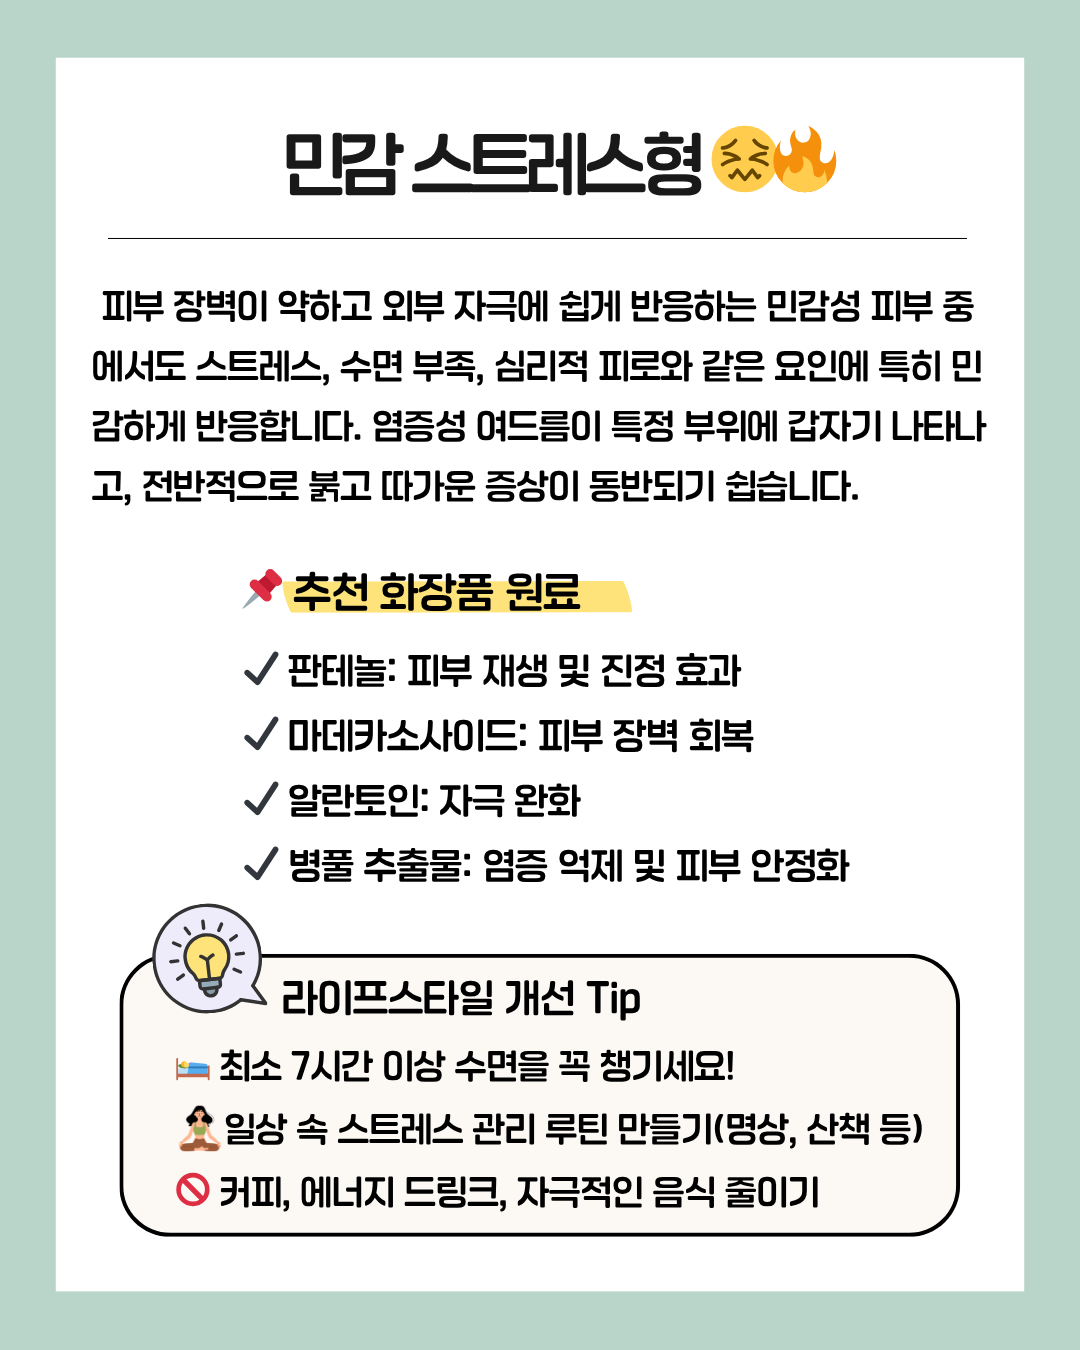
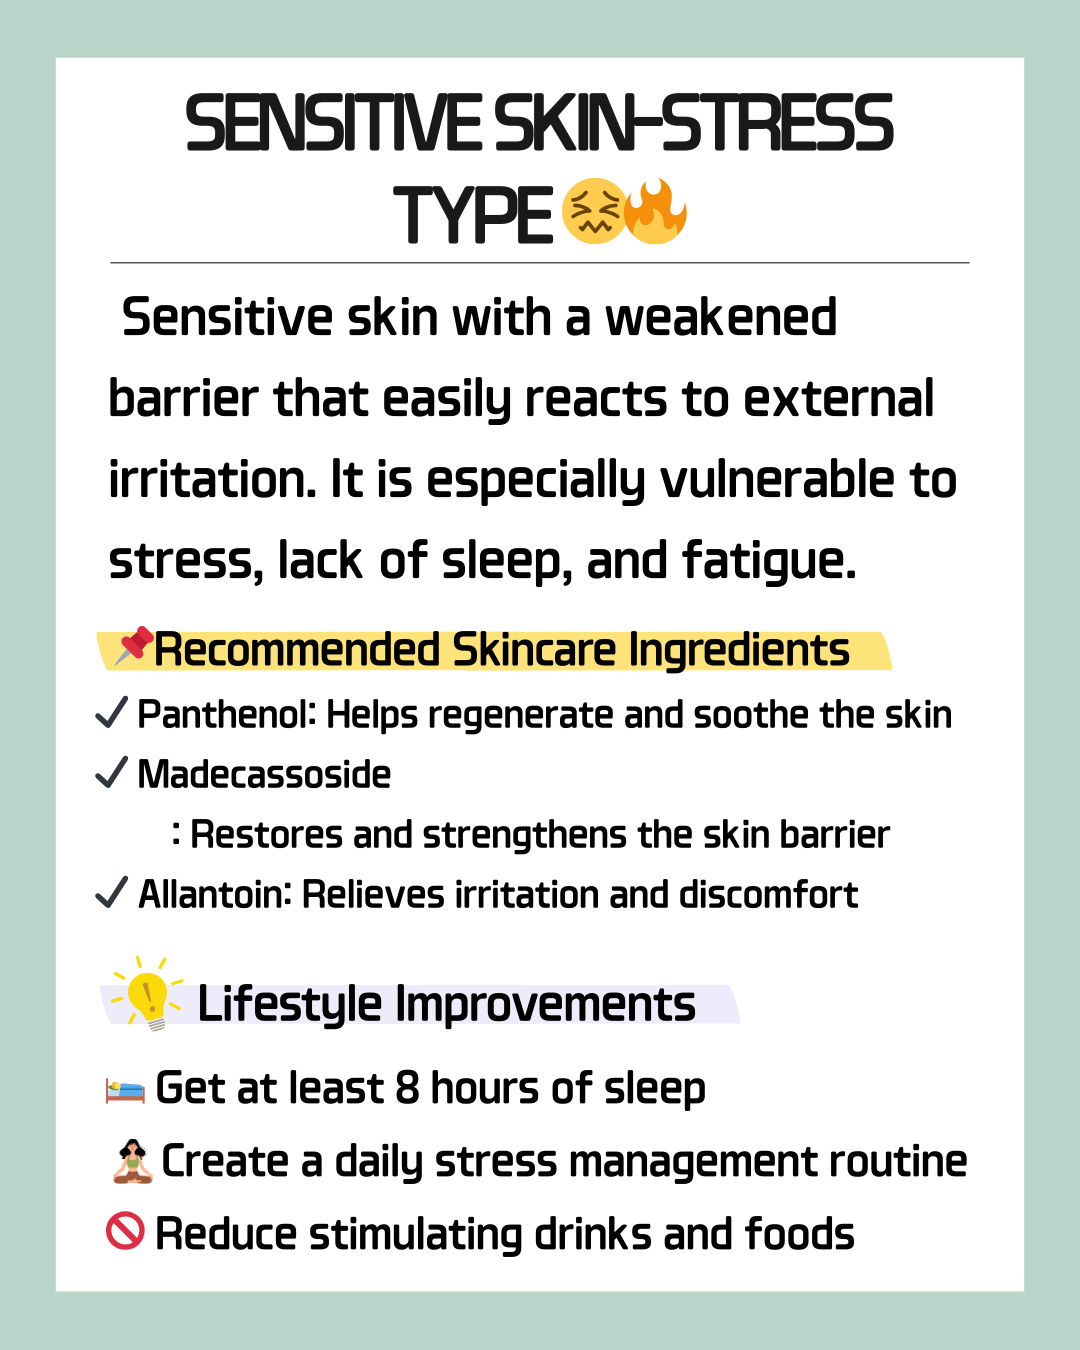
20250926_안드로이드 공유기능 개선 및 영문버전 이미지 추가

diff --git a/frontend/src/pages/ResultPage.jsx b/frontend/src/pages/ResultPage.jsx
@@ -9,7 +9,7 @@ export default function ResultPage() {
   const { state: navState } = useLocation();
   const lang = state.lang || "KOR";
 
-  // 결과 복구
+  // 결과 복구 (Context → Router state → localStorage)
   let result = state.result || navState?.result;
   if (!result) {
     try {
@@ -18,7 +18,7 @@ export default function ResultPage() {
     } catch (e) {}
   }
 
-  // code 우선 → image → fallback
+  // 이미지 경로: code 우선 → image → fallback
   let imgSrc = "";
   if (result?.code != null) {
     imgSrc = `/assets/result-${result.code}.png`;
@@ -29,6 +29,7 @@ export default function ResultPage() {
   }
   if (lang === "ENG") imgSrc = imgSrc.replace(/(\.png)$/i, "_eng$1");
 
+  // 다시하기: 언어 유지
   const retry = () => {
     const keepLang = state.lang;
     dispatch({ type: "RESET" });
@@ -36,77 +37,97 @@ export default function ResultPage() {
     nav("/");
   };
 
-  // ===== 공유 =====
+  // ===== 공유 보조 유틸 (안드로이드 대응: clipboard execCommand 폴백) =====
+  const isSamsung = /SamsungBrowser/i.test(navigator.userAgent);
+
+  // 클립보드 복사 (navigator.clipboard 실패/미지원 시 execCommand 폴백)
+  const copyToClipboard = async (text) => {
+    try {
+      if (navigator.clipboard?.writeText) {
+        await navigator.clipboard.writeText(text);
+        return true;
+      }
+    } catch (_) {
+      // 무시하고 execCommand 폴백 시도
+    }
+    try {
+      const ta = document.createElement("textarea");
+      ta.value = text;
+      ta.setAttribute("readonly", "");
+      ta.style.position = "fixed";
+      ta.style.top = "0";
+      ta.style.left = "0";
+      ta.style.opacity = "0";
+      document.body.appendChild(ta);
+      ta.focus();
+      ta.select();
+      const ok = document.execCommand("copy");
+      document.body.removeChild(ta);
+      return ok;
+    } catch {
+      return false;
+    }
+  };
+
+  // 공유 URL: (OG 전용 URL이 있다면 그걸 쓰는 게 이미지 미리보기 호환성↑)
   const ORIGIN =
     typeof window !== "undefined" && window.location?.origin
       ? window.location.origin
       : "https://acne-eraser.vercel.app";
-
   const code =
     result?.code ??
     (() => {
       const m = imgSrc.match(/result-(\d+)/);
       return m ? parseInt(m[1], 10) : 1;
     })();
+  const shareUrl = `${ORIGIN}/share/${code}?lang=${lang}`;
 
-  // Level-2 미지원 브라우저용: OG 태그가 붙은 전용 공유 URL (이미지 미리보기 보장)
-  const ogShareUrl = `${ORIGIN}/share/${code}?lang=${lang}`;
-
-  const isSamsung = /SamsungBrowser/i.test(navigator.userAgent);
-
-  const copyUrlFallback = async (url) => {
-    try {
-      await navigator.clipboard.writeText(url);
-    } catch {
-      const ta = document.createElement("textarea");
-      ta.value = url;
-      ta.style.position = "fixed";
-      ta.style.opacity = "0";
-      document.body.appendChild(ta);
-      ta.focus();
-      ta.select();
-      try { document.execCommand("copy"); } catch {}
-      document.body.removeChild(ta);
-    }
-    alert(lang === "ENG" ? "Link copied to clipboard." : "링크를 클립보드에 복사했어요.");
-  };
-
+  // 공유: 이미지(+가능하면 파일) + URL / 미지원 시 링크 복사
   const handleShare = async () => {
-    // 1) 파일+URL 동시 공유 시도 (Web Share Level 2)
+    // 1) 파일+URL 동시 공유(Web Share Level 2) 시도
     try {
       const resp = await fetch(imgSrc, { mode: "same-origin", cache: "no-cache" });
       const blob = await resp.blob();
       const filename = (imgSrc.split("/").pop() || "acne-result.png").replace(/\?.*$/, "");
       const file = new File([blob], filename, { type: blob.type || "image/png" });
 
-      // URL 필드는 표준, 일부 삼성 브라우저는 url 무시 → text에 URL만 넣어줌(중복 금지)
-      const payloadBase = isSamsung
-        ? { title: "Spot Eraser", text: ogShareUrl } // 삼성: URL을 text에만
-        : { title: "Spot Eraser", url: ogShareUrl }; // 일반: URL 필드 사용
+      // 삼성 브라우저는 url 필드를 무시하는 사례가 있어 text에만 URL 전달
+      const basePayload = isSamsung
+        ? { title: "Spot Eraser", text: shareUrl }
+        : { title: "Spot Eraser", url: shareUrl };
 
       if (navigator.canShare && navigator.canShare({ files: [file] })) {
-        await navigator.share({ ...payloadBase, files: [file] });
+        await navigator.share({ ...basePayload, files: [file] });
         return;
       }
-    } catch (e) {
-      // 파일 준비 실패 시 아래 폴백으로
+    } catch (_) {
+      // 파일 준비 실패 → 아래 단계로 폴백
     }
 
-    // 2) 파일 공유 불가 → URL만 공유 (OG 미리보기로 이미지가 보임)
+    // 2) 파일 공유 불가: URL만 공유 (표준/삼성 분기)
     try {
       const payload = isSamsung
-        ? { title: "Spot Eraser", text: ogShareUrl } // 삼성: text에만
-        : { title: "Spot Eraser", url: ogShareUrl }; // 일반: url에만
+        ? { title: "Spot Eraser", text: shareUrl } // 삼성: text에만 URL
+        : { title: "Spot Eraser", url: shareUrl }; // 일반: url 필드 사용
       if (navigator.share) {
         await navigator.share(payload);
         return;
       }
-    } catch (e) {
-      // 계속 폴백
+    } catch (_) {
+      // 아래 폴백
     }
 
-    // 3) 최종 폴백: 링크 복사
-    await copyUrlFallback(ogShareUrl);
+    // 3) 최종 폴백: URL을 클립보드 복사 (execCommand까지 시도)
+    const copied = await copyToClipboard(shareUrl);
+    if (copied) {
+      alert(lang === "ENG" ? "Link copied to clipboard." : "링크를 클립보드에 복사했어요.");
+    } else {
+      alert(
+        lang === "ENG"
+          ? "Sharing is not supported in this environment."
+          : "이 브라우저에서는 공유하기가 지원되지 않습니다."
+      );
+    }
   };
 
   return (
@@ -135,7 +156,7 @@ export default function ResultPage() {
             rel="noreferrer"
             style={{ width: "100%", display: "flex", justifyContent: "center" }}
           >
-            {lang === "ENG" ? "Visit INSTAGRAM" : "INSTAGRAM"}
+            {lang === "ENG" ? "Start Acne DM" : "여드름 상담 시작(DM)"}
           </a>
 
           <button className="btn btn-lg share-btn" onClick={handleShare} style={{ width: "100%" }}>
